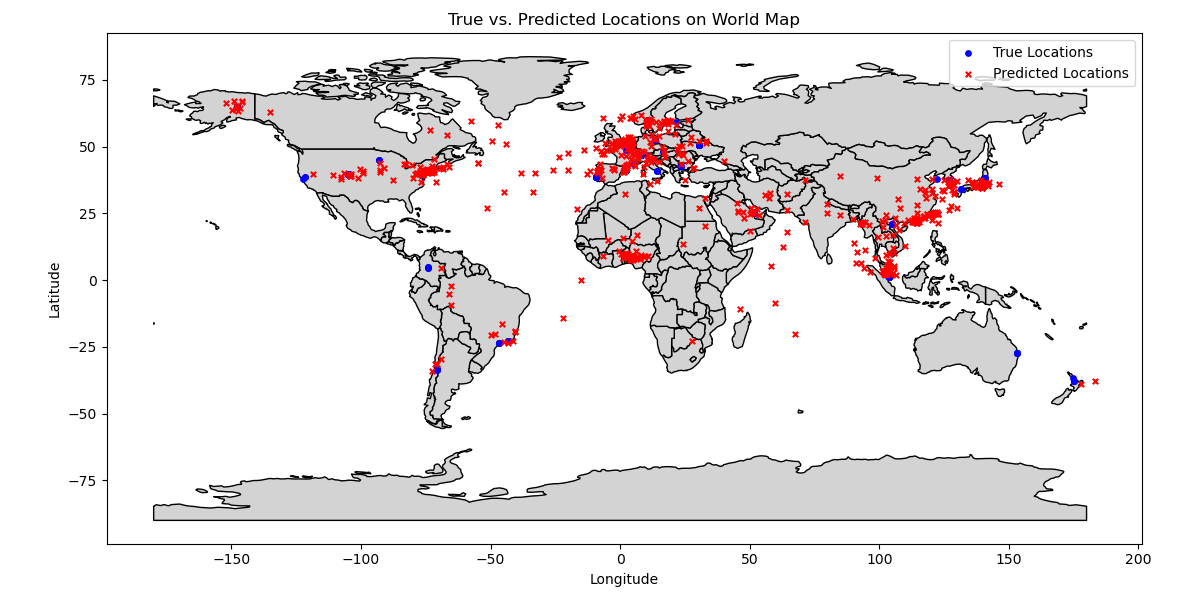
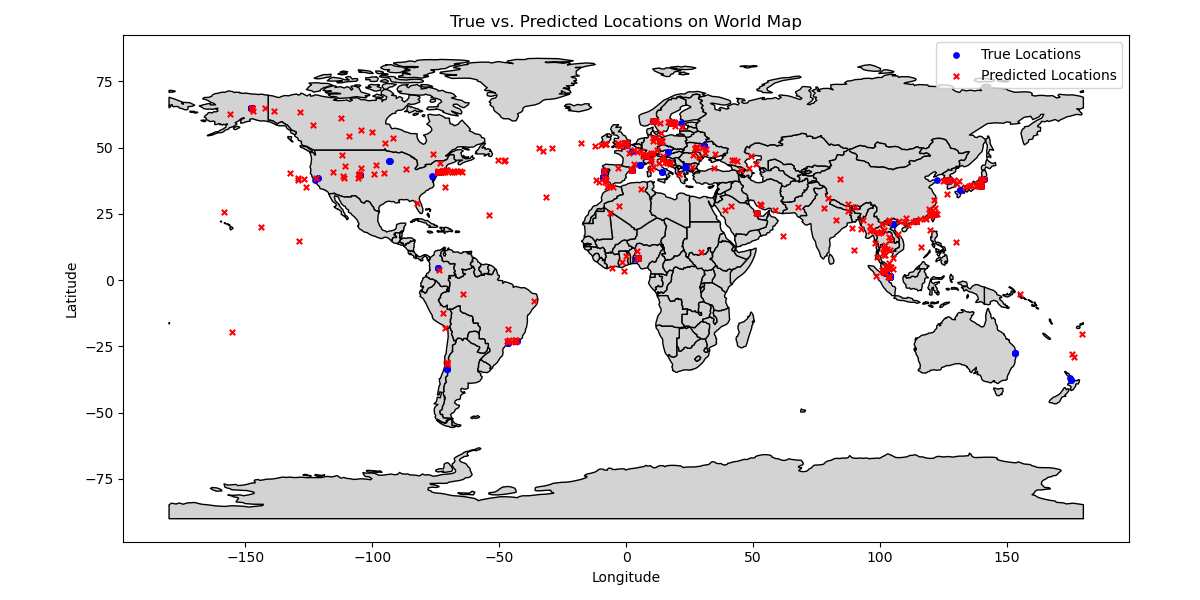
Minor changes to main.py of the ensemble model.

diff --git a/scripts/ensemble/main.py b/scripts/ensemble/main.py
@@ -815,11 +815,11 @@ continent_model, meta_X_train_cont, meta_X_test_cont, cont_train_preds, cont_tes
     X_test=X_test_cont,
     y_train=y_train_cont,
     y_test=y_test_cont,
-    run_xgboost_classifier=None,
+    run_xgboost_classifier=run_xgboost_classifier,
     run_grownet_classifier=None,
     run_nn_classifier=None,
     run_tabpfn_classifier=run_tabpfn_classifier,
-    run_lightgbm_classifier=None,
+    run_lightgbm_classifier=run_lightgbm_classifier,
     run_catboost_classifier=None,
     tune_hyperparams=False,
     apply_smote=True,
